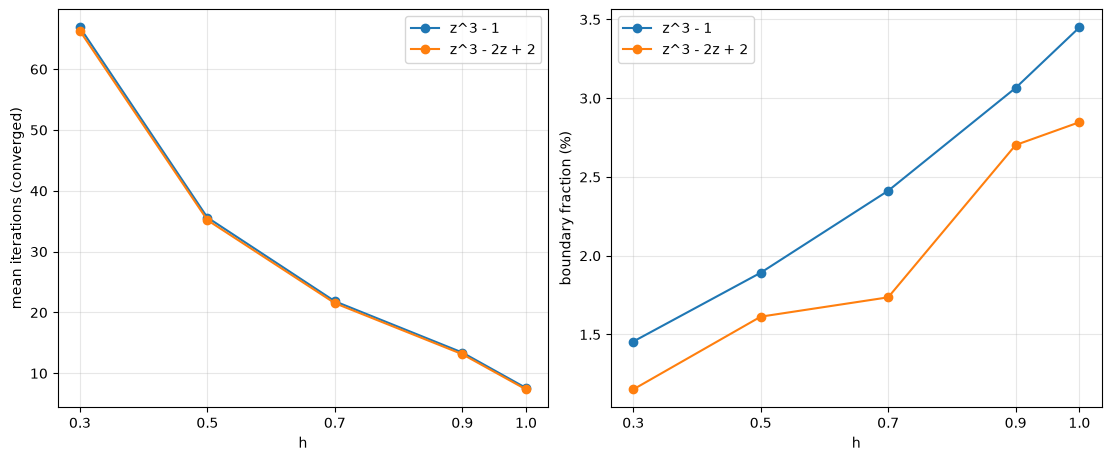
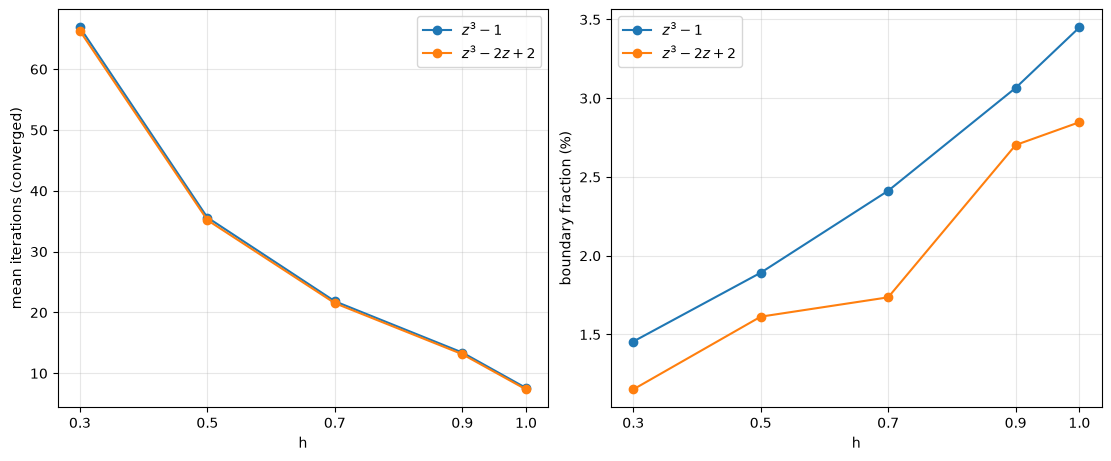
Fix figure labels and titles
Cosmetic changes only; no CSV or numerical result changes.
- E7b figure: "within 3 px of another root" -> "within 3 px of a basin boundary".
- Polynomials in figure titles and legends use mathtext ($z^3-1$, $(z-1)^2(z+1)$,
  $z^3-2z+2$, ...) through the new poly_latex helper in plotting.py.
- E5 double-root figure: the title says which colour is which root
  (red: z = -1, teal: z = 1; hue = root index / number of roots).
- e0_compare.png and e3_failures.png get a suptitle with the polynomial, window,
  N, tol and iter_ref, in the style of the E5 figures.

Changed region(s): [[0.5509, 0.0304, 0.6733, 0.1518], [0.3672, 0.0304, 0.4896, 0.1518]]

diff --git a/experiments/e6_damped.py b/experiments/e6_damped.py
@@ -13,7 +13,7 @@ sys.stdout.reconfigure(encoding="utf-8")
 PROJECT_ROOT = Path(__file__).resolve().parents[1]
 
 from nfractals.methods import newton_step  # noqa: E402
-from nfractals.plotting import plot_basins  # noqa: E402
+from nfractals.plotting import plot_basins, poly_latex  # noqa: E402
 from nfractals.polynomials import POLYNOMIALS, make_polynomial, unique_roots  # noqa: E402
 from nfractals.runner import CONVERGED, FAILED, NOT_CONVERGED, run_basins, single_point  # noqa: E402
 
@@ -108,7 +108,7 @@ for poly_name, file_name in POLYS:
     for ax, h, (root, iters, status) in zip(axes, HS, results):
         plot_basins(root, iters, status, len(roots), ax=ax, iter_ref=iter_ref)
         ax.set_title(f"h = {h:g}", fontsize=10)
-    fig.suptitle(f"Damped Newton on {poly_name} (tol={TOL:g}, max_iter={MAX_ITER}, "
+    fig.suptitle(f"Damped Newton on {poly_latex(poly_name)} (tol={TOL:g}, max_iter={MAX_ITER}, "
                  f"iter_ref={iter_ref:.1f})")
     output_fig = PROJECT_ROOT / "figures" / f"e6_maps_{file_name}.png"
     fig.savefig(output_fig, dpi=100, bbox_inches="tight")
@@ -116,8 +116,8 @@ for poly_name, file_name in POLYS:
 
 fig, (ax1, ax2) = plt.subplots(1, 2, figsize=(11, 4.5), constrained_layout=True)
 for poly_name, (means, boundaries) in curves.items():
-    ax1.plot(HS, means, marker="o", label=poly_name)
-    ax2.plot(HS, boundaries, marker="o", label=poly_name)
+    ax1.plot(HS, means, marker="o", label=poly_latex(poly_name))
+    ax2.plot(HS, boundaries, marker="o", label=poly_latex(poly_name))
 ax1.set_xlabel("h")
 ax1.set_ylabel("mean iterations (converged)")
 ax2.set_xlabel("h")

diff --git a/experiments/e5_polynomials.py b/experiments/e5_polynomials.py
@@ -20,7 +20,7 @@ from nfractals.methods import (  # noqa: E402
     secant_init,
     secant_step,
 )
-from nfractals.plotting import plot_basins  # noqa: E402
+from nfractals.plotting import plot_basins, poly_latex  # noqa: E402
 from nfractals.polynomials import POLYNOMIALS, make_polynomial, unique_roots  # noqa: E402
 from nfractals.runner import (  # noqa: E402
     CONVERGED,
@@ -111,7 +111,12 @@ for poly_name, file_name, tol in POLYS:
     for ax, (name, _, max_iter, *_), (root, iters, status) in zip(axes, methods, results):
         plot_basins(root, iters, status, len(roots), ax=ax, iter_ref=iter_ref)
         ax.set_title(f"{name}, max_iter={max_iter}", fontsize=9)
-    fig.suptitle(f"{poly_name} (tol={tol:g}, iter_ref={iter_ref})")
+    title = f"{poly_latex(poly_name)} (tol={tol:g}, iter_ref={iter_ref})"
+    if poly_name == "(z-1)^2 (z+1)":
+        # Hue = root index / number of roots (see plot_basins): index 0 -> red, index 1 -> cyan/teal.
+        assert np.isclose(roots[0], -1) and np.isclose(roots[1], 1) and len(roots) == 2
+        title += "\ncolours: red = root $z=-1$, teal = root $z=1$; black = not converged"
+    fig.suptitle(title)
     output_fig = PROJECT_ROOT / "figures" / f"e5_{file_name}.png"
     fig.savefig(output_fig, dpi=100, bbox_inches="tight")
     plt.close(fig)

diff --git a/experiments/e7b_muller_delta.py b/experiments/e7b_muller_delta.py
@@ -20,6 +20,7 @@ sys.stdout.reconfigure(encoding="utf-8")
 PROJECT_ROOT = Path(__file__).resolve().parents[1]
 
 from nfractals.methods import muller_init, muller_step  # noqa: E402
+from nfractals.plotting import poly_latex  # noqa: E402
 from nfractals.polynomials import POLYNOMIALS, make_polynomial, unique_roots  # noqa: E402
 from nfractals.runner import CONVERGED, run_basins  # noqa: E402
 
@@ -111,8 +112,8 @@ for delta in (1e-1, 1e-2, 1e-3):
         ax.imshow(pixel_map, origin="lower", interpolation="nearest",
                   cmap=ListedColormap(["white", "#dddddd", "#d62728", "#1f77b4"]), vmin=0, vmax=3)
         ax.set_axis_off()
-        ax.set_title(f"Müller δ=1e-3, z^3 - 1: complex64 vs complex128 ({diff.sum()} pixels with a different root)\n"
-                     "grey: within 3 px of another root; red: different root; blue: converges in only one",
+        ax.set_title(f"Müller δ=1e-3, {poly_latex('z^3 - 1')}: complex64 vs complex128 ({diff.sum()} pixels with a different root)\n"
+                     "grey: within 3 px of a basin boundary; red: different root; blue: converges in only one",
                      fontsize=10)
         output = PROJECT_ROOT / "figures" / "e7_diff_muller.png"
         fig.savefig(output, dpi=110, bbox_inches="tight")

diff --git a/experiments/e7_precision.py b/experiments/e7_precision.py
@@ -21,6 +21,7 @@ from nfractals.methods import (  # noqa: E402
     secant_init,
     secant_step,
 )
+from nfractals.plotting import poly_latex  # noqa: E402
 from nfractals.polynomials import POLYNOMIALS, make_polynomial, unique_roots  # noqa: E402
 from nfractals.runner import CONVERGED, run_basins, single_point  # noqa: E402
 
@@ -139,7 +140,7 @@ for i, (name, _, max_iter, _) in enumerate(methods_for(np.complex128)):
         ax.imshow(pixel_map, origin="lower", interpolation="nearest",
                   cmap=ListedColormap(["white", "#dddddd", "#d62728", "#1f77b4"]), vmin=0, vmax=3)
         ax.set_axis_off()
-        ax.set_title(f"Newton, z^3 - 1: complex64 vs complex128 ({diff_root.sum()} pixels with a different root, "
+        ax.set_title(f"Newton, {poly_latex('z^3 - 1')}: complex64 vs complex128 ({diff_root.sum()} pixels with a different root, "
                      f"{(only64 | only128).sum()} converged in only one)\n"
                      f"grey: within {BOUNDARY_RADIUS} px of another root; red: different root; "
                      "blue: converges in only one",

diff --git a/experiments/e3b_secant_diag.py b/experiments/e3b_secant_diag.py
@@ -17,7 +17,7 @@ sys.stdout.reconfigure(encoding="utf-8")
 PROJECT_ROOT = Path(__file__).resolve().parents[1]
 
 from nfractals.methods import secant_init, secant_step  # noqa: E402
-from nfractals.plotting import plot_basins  # noqa: E402
+from nfractals.plotting import plot_basins, poly_latex  # noqa: E402
 from nfractals.polynomials import POLYNOMIALS, make_polynomial  # noqa: E402
 from nfractals.runner import CONVERGED, FAILED, NOT_CONVERGED, run_basins  # noqa: E402
 
@@ -76,7 +76,7 @@ if z.size:
 fig, ax = plt.subplots(figsize=(7, 7), constrained_layout=True)
 root, iters, st = res[400]
 plot_basins(root, iters, st, len(roots), ax=ax, iter_ref=ITER_REF)
-ax.set_title("Secant, z^3 - 1, max_iter=400")
+ax.set_title(f"Secant, {poly_latex('z^3 - 1')}, max_iter=400")
 output = PROJECT_ROOT / "figures" / "diag_secant.png"
 fig.savefig(output, dpi=100, bbox_inches="tight")
 print(f"Figure saved to {output}")

diff --git a/experiments/e3_failures.py b/experiments/e3_failures.py
@@ -20,7 +20,7 @@ from nfractals.methods import (  # noqa: E402
     secant_init,
     secant_step,
 )
-from nfractals.plotting import plot_basins  # noqa: E402
+from nfractals.plotting import plot_basins, poly_latex  # noqa: E402
 from nfractals.polynomials import POLYNOMIALS, make_polynomial  # noqa: E402
 from nfractals.runner import (  # noqa: E402
     CONVERGED,
@@ -115,6 +115,7 @@ fig, axes = plt.subplots(1, len(methods), figsize=(6 * len(methods), 6), constra
 for ax, (name, _, max_iter, _), (root, iters, status) in zip(axes, methods, results):
     plot_basins(root, iters, status, len(roots), ax=ax, iter_ref=iter_ref)
     ax.set_title(f"{name}, max_iter={max_iter}")
+fig.suptitle(f"{poly_latex('z^3 - 2z + 2')} on [−2, 2]², N = {N} (tol={TOL:g}, iter_ref={iter_ref})")
 
 output_fig = PROJECT_ROOT / "figures" / "e3_failures.png"
 fig.savefig(output_fig, dpi=100, bbox_inches="tight")

diff --git a/experiments/e0_compare.py b/experiments/e0_compare.py
@@ -19,7 +19,7 @@ from nfractals.methods import (  # noqa: E402
     secant_init,
     secant_step,
 )
-from nfractals.plotting import plot_basins  # noqa: E402
+from nfractals.plotting import plot_basins, poly_latex  # noqa: E402
 from nfractals.polynomials import POLYNOMIALS, make_polynomial  # noqa: E402
 from nfractals.runner import (  # noqa: E402
     ACTIVE,
@@ -68,6 +68,7 @@ iter_ref = np.percentile(
     np.concatenate([it[st == CONVERGED] for _, it, st in results]), 99
 )
 print(f"Common iter_ref (99th percentile): {iter_ref:.2f}")
+fig.suptitle(f"{poly_latex('z^3 - 1')} on [−2, 2]², N = {N} (tol={TOL:g}, iter_ref={iter_ref})")
 
 for ax, (name, _, max_iter, _), (root, iters, status) in zip(axes, methods, results):
     plot_basins(root, iters, status, len(roots), ax=ax, iter_ref=iter_ref)

diff --git a/src/nfractals/plotting.py b/src/nfractals/plotting.py
@@ -6,6 +6,21 @@ from nfractals.runner import CONVERGED
 # Minimum brightness of a converged point (pure black is reserved for points that do not converge).
 MIN_BRIGHTNESS = 0.35
 
+# Mathtext names of the polynomials of `POLYNOMIALS`, for figure titles and legends.
+POLY_LATEX = {
+    "z^3 - 1": r"$z^3-1$",
+    "z^3 - 2z + 2": r"$z^3-2z+2$",
+    "(z-1)^2 (z+1)": r"$(z-1)^2(z+1)$",
+    "z^4 - 1": r"$z^4-1$",
+    "z^5 - 1": r"$z^5-1$",
+    "z^6 - 1": r"$z^6-1$",
+}
+
+
+def poly_latex(name):
+    """Mathtext version of a polynomial name from `POLYNOMIALS` (the name itself if unknown)."""
+    return POLY_LATEX.get(name, name)
+
 
 def plot_basins(root, iters, status, n_roots, ax=None, iter_ref=None):
     """Return an RGB image (height, width, 3) of the basins.
